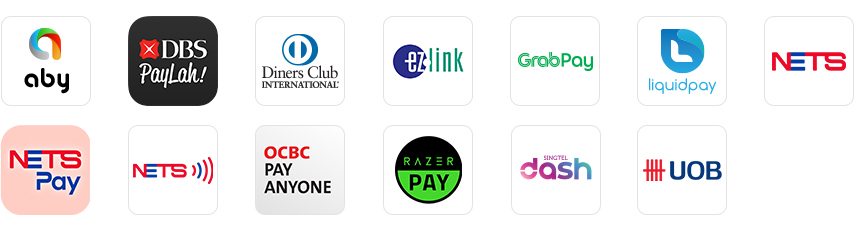
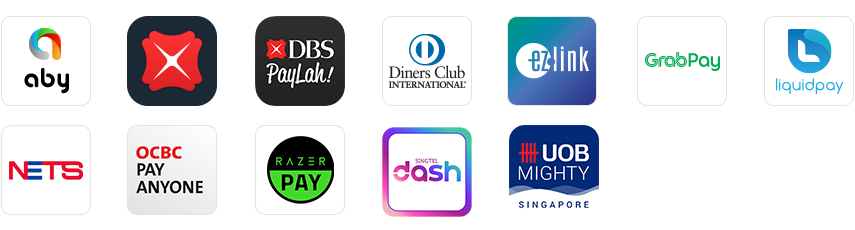
copy and image updates

diff --git a/_programmes/1a-scanpaywin.md b/_programmes/1a-scanpaywin.md
@@ -13,13 +13,13 @@ third_nav_title: Scan, Pay, Win
 
 ### Let's go digital today!
 
-Paying for wet market buys or hawker foods is not just easier now, but also more rewarding! Look out for the Scan, Pay, Win sticker and simply scan the SGQR code to e-pay at participating stalls*. You could win up to $4,888 and more every month! Stallholders of winning transactions will also win $500! There's no better time to go digital!
+Paying for meals at hawker centres and coffee shops is not just easier now, but also more rewarding! Scan the SGQR code with any one of the participating e-payment apps to pay at participating stalls*. You could win up to $4,888 and more every month! Stallholders of winning transactions will also win $500. There’s no better time to go digital!
 
-<sup>*participating stalls at NEA hawker centres, HDB coffeeshops and JTC industrial canteens</sup>
+<sup>*Participating stalls at NEA hawker centres, HDB coffee shops and JTC industrial canteens.</sup>
 
 ### Not sure how to e-pay?
 
-Visit your nearest [SG Digital community hub](/sg-digital-community-hubs) and enjoy one-on-one guidance from our Digital ambassador. They are located at selected community clubs, centres and public libraries. You'll also get to learn a whole bunch of other wonderful digital skills.
+Visit your nearest [SG Digital community hub](/sg-digital-community-hubs) at selected community clubs, centres and public libraries. You’ll also get to learn a whole bunch of other wonderful digital skills too! Specially for seniors, there will be a one-on-one guidance from our Digital Ambassadors at the hub.
 
 ![Here's what you can win every month!](/images/programmes/IMDA_SPW_Prizes.jpg)
 

diff --git a/_programmes/1b-faq.md b/_programmes/1b-faq.md
@@ -43,7 +43,7 @@ No, you won’t qualify for the Lucky Draw.
 ### Draw Dates
 
 **When are the draw dates and where will the draws be held?**  
-The draws will be held at NETS’ office at 298 Tiong Bahru Road, #06-01, Singapore 168730 on the date and time as follows:
+The draws will be held at the NETS office at 298 Tiong Bahru Road, #06-01, Singapore 168730.
 
 1st draw: 10am, 22 Dec 2020
 2nd draw: 10am, 26 Jan 2021
@@ -74,4 +74,4 @@ Your full name and/or partially masked contact information (e.g. mobile number, 
 IMDA is the organiser of the Lucky Draw. IMDA’s office is located at 10 Pasir Panjang Road #03-01 Mapletree Business City Singapore 117438.
 
 **Where can I get more information about the Lucky Draw?**  
-You can visit our website at [go.gov.sg/scanpaywin](https://go.gov.sg/scanpaywin) for the full Terms & Conditions or call IMDA/SDO at 6377 3800 for further assistance.
+For the full terms and conditions, please view the Terms & Conditions page, or visit [www.sdo.gov.sg/contact-us/](https://www.sdo.gov.sg/contact-us/) for further assistance.

diff --git a/_programmes/1c-tnc.md b/_programmes/1c-tnc.md
@@ -23,8 +23,7 @@ third_nav_title: Scan, Pay, Win
 			<li>EZ-Link Wallet</li>
 			<li>GrabPay</li>
 			<li>LiquidPay</li>
-			<li>NETS Pin, NETS Tap (Singapore issued DBS/OCBC/POSB/UOB/Maybank debit cards)</li>
-			<li>NETS Pay</li>
+			<li>NETSPay</li>
 			<li>OCBC Pay Anyone</li>
 			<li>Razer Pay</li>
 			<li>Singtel Dash</li>
